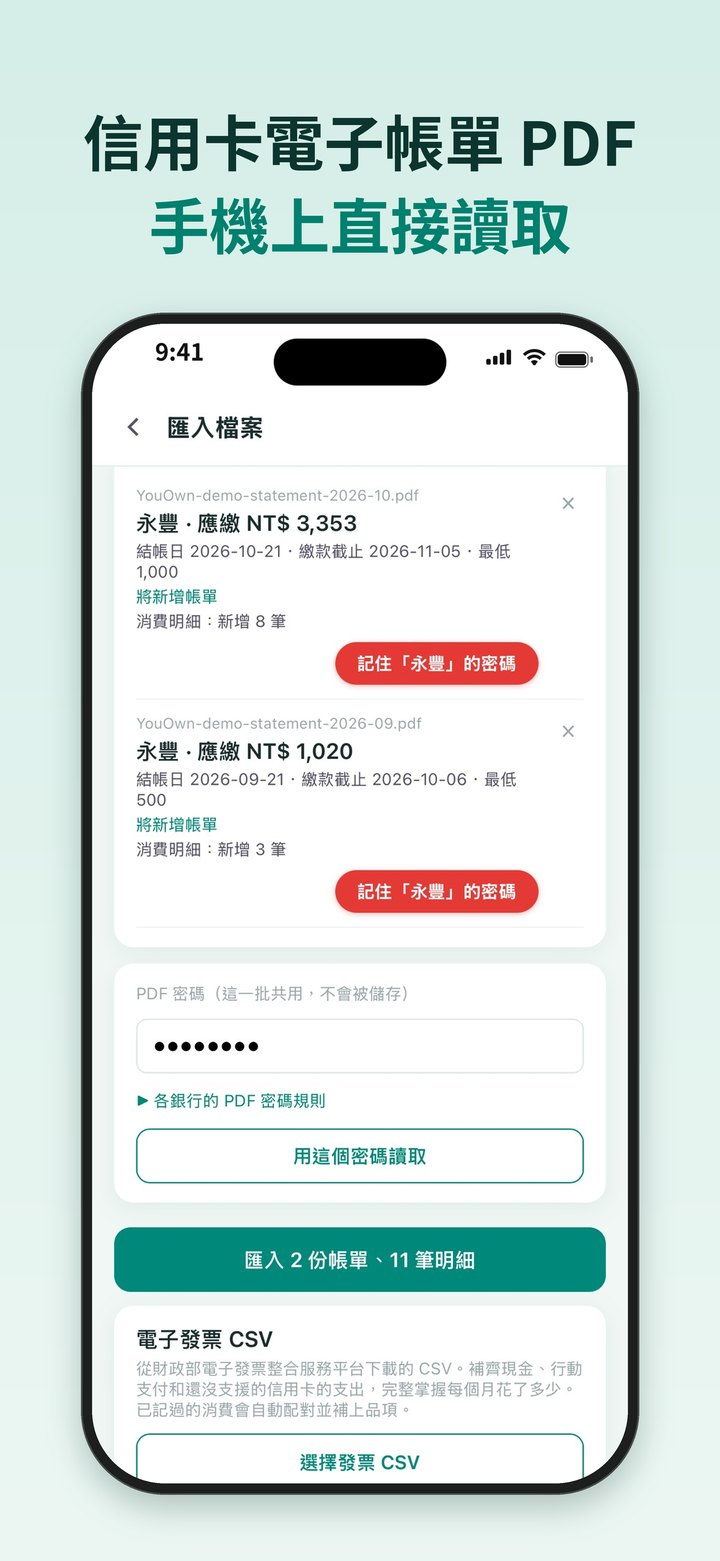
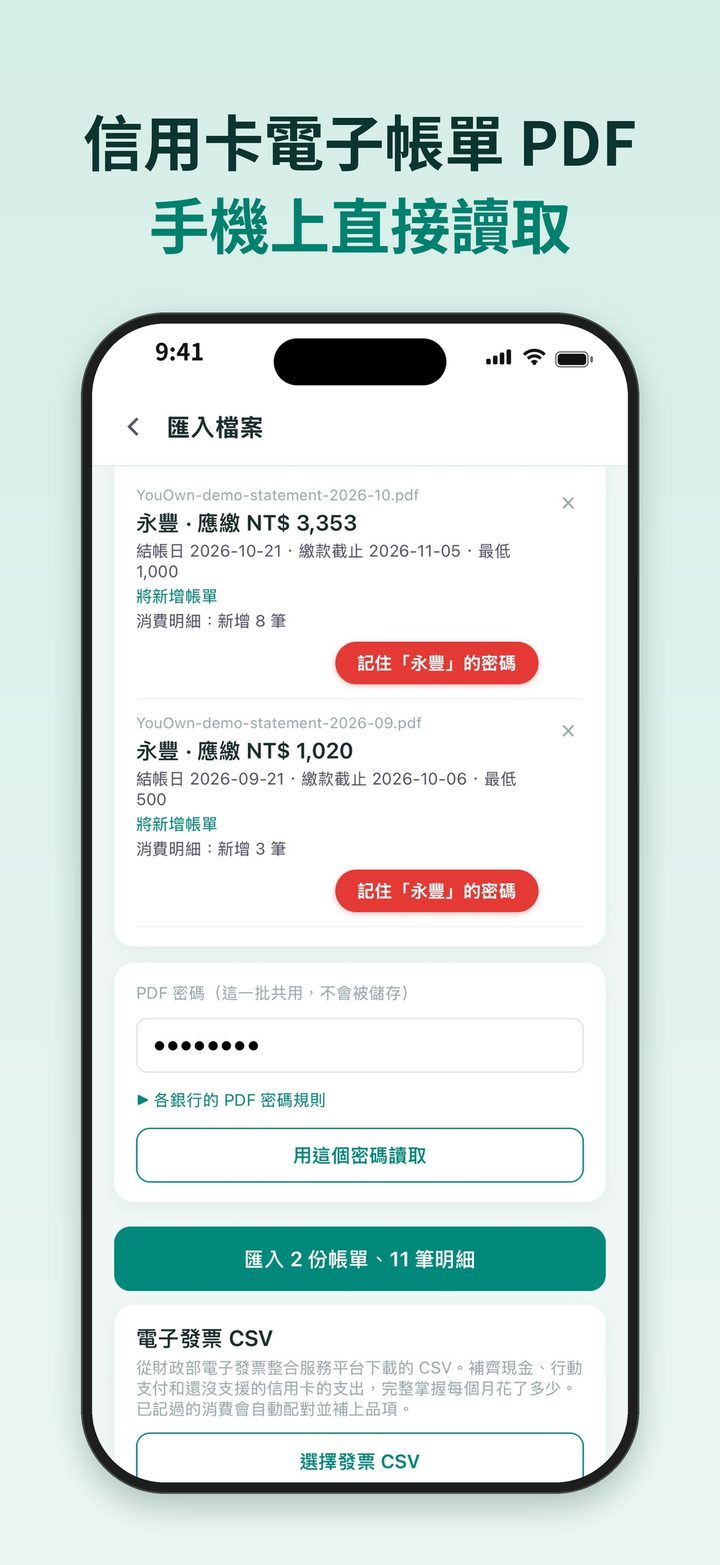
Add files via upload

diff --git a/bills/index.html b/bills/index.html
@@ -1,0 +1,177 @@
+<!DOCTYPE html>
+<html lang="zh-Hant-TW">
+<head>
+<meta charset="utf-8">
+<meta name="viewport" content="width=device-width, initial-scale=1">
+<title>YouOwn 帳單管家｜信用卡帳單整理 iPhone App</title>
+<meta name="description" content="YouOwn 帳單管家：在 iPhone 上直接讀取信用卡電子帳單 PDF 與電子發票 CSV，整理後存進你自己的 Google 試算表，繳款日前提醒你。沒有伺服器，不存你的帳務資料。">
+<link rel="canonical" href="https://youown.app/bills/">
+<meta property="og:type" content="website">
+<meta property="og:locale" content="zh_TW">
+<meta property="og:site_name" content="YouOwn">
+<meta property="og:title" content="YouOwn 帳單管家｜信用卡帳單整理 iPhone App">
+<meta property="og:description" content="在手機上讀取信用卡電子帳單與電子發票，整理後放進你自己的 Google 試算表。">
+<meta property="og:url" content="https://youown.app/bills/">
+<meta property="og:image" content="https://youown.app/bills/screens/01-import.jpg">
+<meta name="theme-color" content="#141a20">
+<meta name="apple-itunes-app" content="app-id=6837612326">
+<link rel="icon" href="/favicon.svg" type="image/svg+xml">
+<link rel="apple-touch-icon" href="/apple-touch-icon.png">
+<script type="application/ld+json">
+{"@context":"https://schema.org","@type":"MobileApplication","name":"YouOwn 帳單管家","url":"https://youown.app/bills/","operatingSystem":"iOS","applicationCategory":"FinanceApplication","inLanguage":"zh-Hant-TW","downloadUrl":"https://apps.apple.com/tw/app/youown-%E5%B8%B3%E5%96%AE%E7%AE%A1%E5%AE%B6/id6837612326","image":"https://youown.app/bills/screens/01-import.jpg","description":"在 iPhone 上直接讀取信用卡電子帳單 PDF 與電子發票 CSV，整理後存進使用者自己的 Google 試算表。","author":{"@type":"Person","name":"J.K"},"publisher":{"@type":"Organization","name":"YouOwn","url":"https://youown.app/"}}
+</script>
+<link rel="preconnect" href="https://fonts.googleapis.com">
+<link rel="preconnect" href="https://fonts.gstatic.com" crossorigin>
+<link href="https://fonts.googleapis.com/css2?family=Fraunces:opsz,wght@9..144,600&family=Noto+Serif+TC:wght@600&display=swap" rel="stylesheet">
+<style>
+:root{--bg:#141a20;--ink:#e8eef0;--mute:#8a979e;--accent:#11a995;--line:#26303a;--card:#1a222a}
+*{box-sizing:border-box;margin:0}
+html{scroll-padding-top:24px}
+body{background:var(--bg);color:var(--ink);font:16px/1.8 "Noto Sans TC",system-ui,-apple-system,sans-serif;padding-left:56px}
+body::before{content:"";position:fixed;left:0;top:0;bottom:0;width:36px;border-right:1px solid var(--line);opacity:.6;
+background:repeating-linear-gradient(to bottom,var(--mute) 0 1px,transparent 1px 12px) right/10px 100% no-repeat,repeating-linear-gradient(to bottom,var(--accent) 0 1px,transparent 1px 60px) right/22px 100% no-repeat}
+.wrap{max-width:880px;margin:0 auto;padding:0 24px}
+a{color:inherit}
+:focus-visible{outline:2px solid var(--accent);outline-offset:3px}
+.serif{font-family:"Noto Serif TC","Fraunces",serif;font-weight:600}
+header{display:flex;justify-content:space-between;align-items:baseline;padding:28px 0}
+.mark{font:600 24px/1 "Fraunces",serif;letter-spacing:.01em;text-decoration:none}
+.by{color:var(--mute);font-size:14px}
+.crumb{color:var(--mute);font-size:14px}
+.crumb a{text-decoration:none}.crumb a:hover{color:var(--accent)}
+.hero{padding:56px 0 64px}
+h1{font-size:clamp(34px,6.4vw,58px);line-height:1.25;margin-bottom:24px}
+h1 em{font-style:normal;color:var(--accent)}
+.lead{max-width:34em;color:var(--mute);font-size:18px}
+.cta{display:flex;flex-wrap:wrap;gap:14px;align-items:center;margin-top:32px}
+.btn{display:inline-block;background:var(--accent);color:#06211d;font-weight:700;text-decoration:none;padding:12px 26px;border:1px solid var(--accent);transition:background .2s}
+.btn:hover{background:#0e8f7e}
+.btn.ghost{background:transparent;color:var(--ink);border-color:var(--line);font-weight:500}
+.btn.ghost:hover{border-color:var(--accent);background:transparent}
+.note{color:var(--mute);font-size:14px;margin-top:14px}
+section{border-top:1px solid var(--line);padding:56px 0}
+h2{font-size:26px;line-height:1.4}
+.sub{color:var(--mute);margin-top:6px}
+.feat{display:grid;grid-template-columns:repeat(auto-fit,minmax(250px,1fr));gap:16px;margin-top:28px}
+.feat div{background:var(--card);border:1px solid var(--line);padding:22px}
+.feat h3{font-size:19px;margin-bottom:8px}
+.feat p{color:var(--mute);font-size:15px}
+.strip{display:flex;gap:16px;overflow-x:auto;scroll-snap-type:x mandatory;padding:4px 0 18px;margin-top:28px;scrollbar-color:var(--line) transparent}
+.strip img{flex:none;width:min(240px,62vw);height:auto;border:1px solid var(--line);scroll-snap-align:start;display:block}
+dl{border-top:1px solid var(--line);margin-top:24px}
+dl div{display:flex;justify-content:space-between;gap:16px;padding:12px 0;border-bottom:1px solid var(--line);font-size:15px}
+dt{color:var(--mute);flex:none}
+dd{text-align:right}
+.two{display:grid;grid-template-columns:1.1fr 1fr;gap:40px}
+.two p,.two li{color:var(--mute)}
+ul.plain{padding-left:1.2em}
+ul.plain li{margin-bottom:8px}
+ul.plain b{color:var(--ink);font-weight:500}
+.chips{display:flex;flex-wrap:wrap;gap:10px;list-style:none;padding:0;margin-top:24px}
+.chips li{border:1px solid var(--line);background:var(--card);padding:4px 16px;font-size:15px}
+.faq h3{font-size:17px;margin:22px 0 4px;font-weight:500}
+.faq p{color:var(--mute);font-size:15px}
+.faq a,.link{color:var(--accent)}
+footer{border-top:1px solid var(--line);padding:32px 0 56px;color:var(--mute);font-size:14px}
+@media(max-width:700px){body{padding-left:36px}body::before{width:20px}.two{grid-template-columns:1fr;gap:24px}.hero{padding:32px 0 48px}}
+@media(prefers-reduced-motion:reduce){.btn{transition:none}.strip{scroll-behavior:auto}}
+</style>
+</head>
+<body>
+<div class="wrap">
+<header>
+<a class="mark" href="/">YouOwn</a>
+<span class="by">by J.K</span>
+</header>
+
+<main>
+<p class="crumb"><a href="/">YouOwn</a> / 帳單管家</p>
+<div class="hero">
+<h1 class="serif">信用卡帳單，<br>整理好放在<em>你自己的</em>雲端。</h1>
+<p class="lead">YouOwn 帳單管家是一款 iPhone App。選取銀行寄來的電子帳單 PDF，在手機上直接讀取，整理成消費明細，存進你自己的 Google 試算表，繳款日前提醒你。</p>
+<div class="cta">
+<a class="btn" href="https://apps.apple.com/tw/app/youown-%E5%B8%B3%E5%96%AE%E7%AE%A1%E5%AE%B6/id6837612326" rel="noopener">在 App Store 下載</a>
+<a class="btn ghost" href="/bills/privacy/">隱私權政策</a>
+</div>
+<p class="note">適用 iPhone。需要 Google 帳號（資料存在你自己的雲端硬碟）。</p>
+</div>
+
+<section aria-labelledby="feat">
+<h2 id="feat" class="serif">三件事，做好就夠了</h2>
+<div class="feat">
+<div>
+<h3 class="serif">讀取電子帳單</h3>
+<p>選取信用卡電子帳單 PDF（或從郵件、檔案 App 的分享選單直接交給 YouOwn），在手機上解析出應繳金額、繳款截止日與每筆消費。加密的 PDF 也能開，密碼可選擇記在這支手機的鑰匙圈。</p>
+</div>
+<div>
+<h3 class="serif">發票配對與自訂分類</h3>
+<p>匯入財政部電子發票 CSV，自動配對信用卡消費、補上品項。可以用關鍵字建立自己的分類規則，分類的 emoji 與要顯示的頁籤也都能自己改。</p>
+</div>
+<div>
+<h3 class="serif">資料留在你手上</h3>
+<p>所有紀錄寫進你 Google 雲端硬碟裡的「YouOwn 帳本」試算表，想看、想改、想刪都由你。可以用 Face ID 鎖住 App，繳款日前會提醒你。</p>
+</div>
+</div>
+</section>
+
+<section aria-labelledby="shots">
+<h2 id="shots" class="serif">畫面</h2>
+<p class="sub">左右滑動看更多。畫面中的帳單與消費皆為示範資料。</p>
+<div class="strip" tabindex="0" role="group" aria-label="App 畫面截圖">
+<img src="/bills/screens/01-import.jpg" width="720" height="1565" alt="匯入信用卡電子帳單 PDF，在手機上直接讀取">
+<img src="/bills/screens/02-share.jpg" width="720" height="1565" alt="從郵件或檔案 App 的分享選單，直接把帳單交給 YouOwn">
+<img src="/bills/screens/03-bills.jpg" width="720" height="1565" alt="帳單頁：應繳金額與繳款截止日">
+<img src="/bills/screens/04-spending.jpg" width="720" height="1565" alt="消費明細：可搜尋、可分類" loading="lazy">
+<img src="/bills/screens/05-overview.jpg" width="720" height="1565" alt="總覽：每月收支一目了然" loading="lazy">
+<img src="/bills/screens/06-invoices.jpg" width="720" height="1565" alt="發票頁：匯入電子發票 CSV，自動配對信用卡消費" loading="lazy">
+<img src="/bills/screens/07-security.jpg" width="720" height="1565" alt="設定頁：Face ID 鎖定，資料存在你自己的雲端硬碟" loading="lazy">
+<img src="/bills/screens/08-personalize.jpg" width="720" height="1565" alt="自訂顯示的頁籤與分類 emoji" loading="lazy">
+<img src="/bills/screens/09-rules.jpg" width="720" height="1565" alt="新增分類規則：用關鍵字自動分類發票" loading="lazy">
+</div>
+</section>
+
+<section aria-labelledby="privacy">
+<h2 id="privacy" class="serif">你的資料怎麼處理</h2>
+<div class="two" style="margin-top:20px">
+<ul class="plain">
+<li><b>在手機上讀取。</b>PDF 與 CSV 只在你的手機上解析，不會上傳。掃描檔的文字辨識也用 iOS 內建功能，在手機上完成。</li>
+<li><b>沒有伺服器。</b>開發者沒有資料庫，看不到也不保存你的帳單、消費或試算表內容。</li>
+<li><b>只要必要的權限。</b>只申請 Google 雲端硬碟的「應用程式自己建立的檔案」與帳號 email，看不到你雲端硬碟裡的其他檔案，<b>也不會讀取你的 Gmail</b>。</li>
+<li><b>沒有廣告、沒有追蹤。</b>不賣資料，不用分析或廣告 SDK，也不拿資料訓練 AI。</li>
+</ul>
+<dl style="margin-top:0">
+<div><dt>資料存放</dt><dd>你自己的 Google 雲端硬碟</dd></div>
+<div><dt>Google 權限</dt><dd>drive.file、帳號 email</dd></div>
+<div><dt>解鎖</dt><dd>Face ID（選用）</dd></div>
+<div><dt>撤銷方式</dt><dd>Google 帳號 → 第三方應用程式</dd></div>
+</dl>
+</div>
+<p class="sub" style="margin-top:20px">完整說明請看 <a class="link" href="/bills/privacy/">隱私權政策</a>。</p>
+</section>
+
+<section aria-labelledby="banks">
+<h2 id="banks" class="serif">支援的銀行</h2>
+<p class="sub">以下銀行的電子帳單可以匯入並讀出消費明細。</p>
+<ul class="chips"><li>永豐</li><li>華南</li><li>臺灣銀行</li><li>台新</li><li>星展</li><li>新光</li><li>中信</li><li>玉山</li><li>元大</li><li>國泰世華</li><li>合作金庫</li><li>富邦</li><li>匯豐</li></ul>
+<p class="note">還沒支援你的銀行？可以用「手動輸入帳單」記下金額與繳款日；也歡迎寄信告訴我，我會優先處理。</p>
+</section>
+
+<section class="faq" aria-labelledby="faq">
+<h2 id="faq" class="serif">常見問題</h2>
+<h3>為什麼需要 Google 帳號？</h3>
+<p>因為你的資料存在你自己的 Google 雲端硬碟裡。YouOwn 沒有自己的伺服器，也沒有另外的會員系統。</p>
+<h3>YouOwn 會讀我的 Gmail 嗎？</h3>
+<p>不會。YouOwn 只讀取你自己選的帳單 PDF 與發票 CSV，完全不申請 Gmail 權限。</p>
+<h3>登入時出現「雲端硬碟」的勾選，一定要勾嗎？</h3>
+<p>要。沒勾的話 YouOwn 沒辦法建立你的「YouOwn 帳本」。App 會提示你重新授權，照畫面按「重新授權」並勾選即可。</p>
+<h3>怎麼刪除我的資料？</h3>
+<p>直接刪除雲端硬碟裡的「YouOwn 帳本」試算表，再到 Google 帳號的「安全性」移除 YouOwn 的授權。App 內登出會清除手機上的快取。</p>
+<h3>遇到讀不出來的帳單？</h3>
+<p>在 App 內按「回報問題」，確認內容後寄給我就好；或直接寄信到 <a href="mailto:josh@youown.app">josh@youown.app</a>。</p>
+</section>
+</main>
+
+<footer>YouOwn 由獨立開發者 J.K 製作，來自台灣。　·　<a href="/">YouOwn 首頁</a>　·　<a href="/bills/privacy/">帳單管家隱私權政策</a>　·　<a href="mailto:josh@youown.app">josh@youown.app</a></footer>
+</div>
+</body>
+</html>

diff --git a/index.html b/index.html
@@ -18,7 +18,8 @@
 <script type="application/ld+json">
 {"@context":"https://schema.org","@graph":[
 {"@type":"WebSite","name":"YouOwn","url":"https://youown.app/","inLanguage":"zh-Hant-TW"},
-{"@type":"Organization","name":"YouOwn","url":"https://youown.app/","founder":{"@type":"Person","name":"J.K"}}
+{"@type":"Organization","name":"YouOwn","url":"https://youown.app/","founder":{"@type":"Person","name":"J.K"}},
+{"@type":"MobileApplication","name":"YouOwn 帳單管家","url":"https://youown.app/bills/","operatingSystem":"iOS","applicationCategory":"FinanceApplication","downloadUrl":"https://apps.apple.com/tw/app/youown-%E5%B8%B3%E5%96%AE%E7%AE%A1%E5%AE%B6/id6837612326"}
 ]}
 </script>
 <link rel="preconnect" href="https://fonts.googleapis.com">
@@ -56,11 +57,16 @@ dd{text-align:right}
 .card:hover{border-color:var(--accent)}
 .card h3{font-size:19px;margin-bottom:8px}
 .card p{color:var(--mute);font-size:15px}
+.cta{display:flex;flex-wrap:wrap;gap:12px;margin-top:28px}
+.btn{display:inline-block;background:var(--accent);color:#06211d;font-weight:700;text-decoration:none;padding:10px 24px;border:1px solid var(--accent);transition:background .2s}
+.btn:hover{background:#0e8f7e}
+.btn.ghost{background:transparent;color:var(--ink);border-color:var(--line);font-weight:500}
+.btn.ghost:hover{border-color:var(--accent)}
 .shots{display:grid;grid-template-columns:repeat(3,1fr);gap:16px;margin-top:40px}
 .shots img{display:block;width:100%;height:auto;border:1px solid var(--line)}
 footer{border-top:1px solid var(--line);padding:32px 0 56px;color:var(--mute);font-size:14px}
-@media(max-width:700px){body{padding-left:36px}body::before{width:20px}.flag{grid-template-columns:1fr}.shots{grid-template-columns:repeat(2,1fr);gap:12px}.hero{padding:56px 0}}
-@media(prefers-reduced-motion:reduce){.card{transition:none}}
+@media(max-width:700px){body{padding-left:36px}body::before{width:20px}.flag{grid-template-columns:1fr}.shots{gap:10px}.hero{padding:56px 0}}
+@media(prefers-reduced-motion:reduce){.card,.btn{transition:none}}
 </style>
 </head>
 <body>
@@ -77,7 +83,7 @@ footer{border-top:1px solid var(--line);padding:32px 0 56px;color:var(--mute);fo
 </div>
 
 <section aria-labelledby="flagship">
-<h2 id="flagship" class="serif">YouOwn 帳單管家<span class="status">即將上線</span></h2>
+<h2 id="flagship" class="serif">YouOwn 帳單管家<span class="status">iPhone App</span></h2>
 <div class="flag">
 <p>信用卡帳單與消費整理。選取銀行寄給你的電子帳單 PDF（也可以加上財政部電子發票 CSV），在手機上直接讀取，整理好放進你自己的 Google 試算表，繳款日前提醒你。</p>
 <dl>
@@ -87,13 +93,11 @@ footer{border-top:1px solid var(--line);padding:32px 0 56px;color:var(--mute);fo
 <div><dt>我的伺服器</dt><dd>不存你的帳務資料</dd></div>
 </dl>
 </div>
+<p class="cta"><a class="btn" href="https://apps.apple.com/tw/app/youown-%E5%B8%B3%E5%96%AE%E7%AE%A1%E5%AE%B6/id6837612326" rel="noopener">在 App Store 下載</a><a class="btn ghost" href="/bills/">了解更多</a></p>
 <div class="shots">
-<img src="/bills/screens/01-import.jpg" width="720" height="1561" alt="匯入信用卡電子帳單 PDF，在手機上直接讀取" loading="lazy">
-<img src="/bills/screens/02-bills.jpg" width="720" height="1561" alt="帳單頁：應繳金額與繳款截止日" loading="lazy">
-<img src="/bills/screens/03-spending.jpg" width="720" height="1561" alt="消費明細：可搜尋、可分類" loading="lazy">
-<img src="/bills/screens/04-overview.jpg" width="720" height="1561" alt="總覽：每月收支一目了然" loading="lazy">
-<img src="/bills/screens/05-invoices.jpg" width="720" height="1561" alt="發票頁：匯入電子發票 CSV，自動配對信用卡消費" loading="lazy">
-<img src="/bills/screens/06-security.jpg" width="720" height="1561" alt="設定頁：Face ID 鎖定，資料存在你自己的雲端硬碟" loading="lazy">
+<img src="/bills/screens/01-import.jpg" width="720" height="1565" alt="匯入信用卡電子帳單 PDF，在手機上直接讀取" loading="lazy">
+<img src="/bills/screens/03-bills.jpg" width="720" height="1565" alt="帳單頁：應繳金額與繳款截止日" loading="lazy">
+<img src="/bills/screens/06-invoices.jpg" width="720" height="1565" alt="發票頁：匯入電子發票 CSV，自動配對信用卡消費" loading="lazy">
 </div>
 </section>
 
@@ -116,7 +120,7 @@ footer{border-top:1px solid var(--line);padding:32px 0 56px;color:var(--mute);fo
 </section>
 </main>
 
-<footer>YouOwn 由獨立開發者 J.K製作，來自台灣。　·　<a href="/bills/privacy/">帳單管家隱私權政策</a></footer>
+<footer>YouOwn 由獨立開發者 J.K製作，來自台灣。　·　<a href="/bills/">帳單管家</a>　·　<a href="/bills/privacy/">隱私權政策</a></footer>
 </div>
 </body>
 </html>
